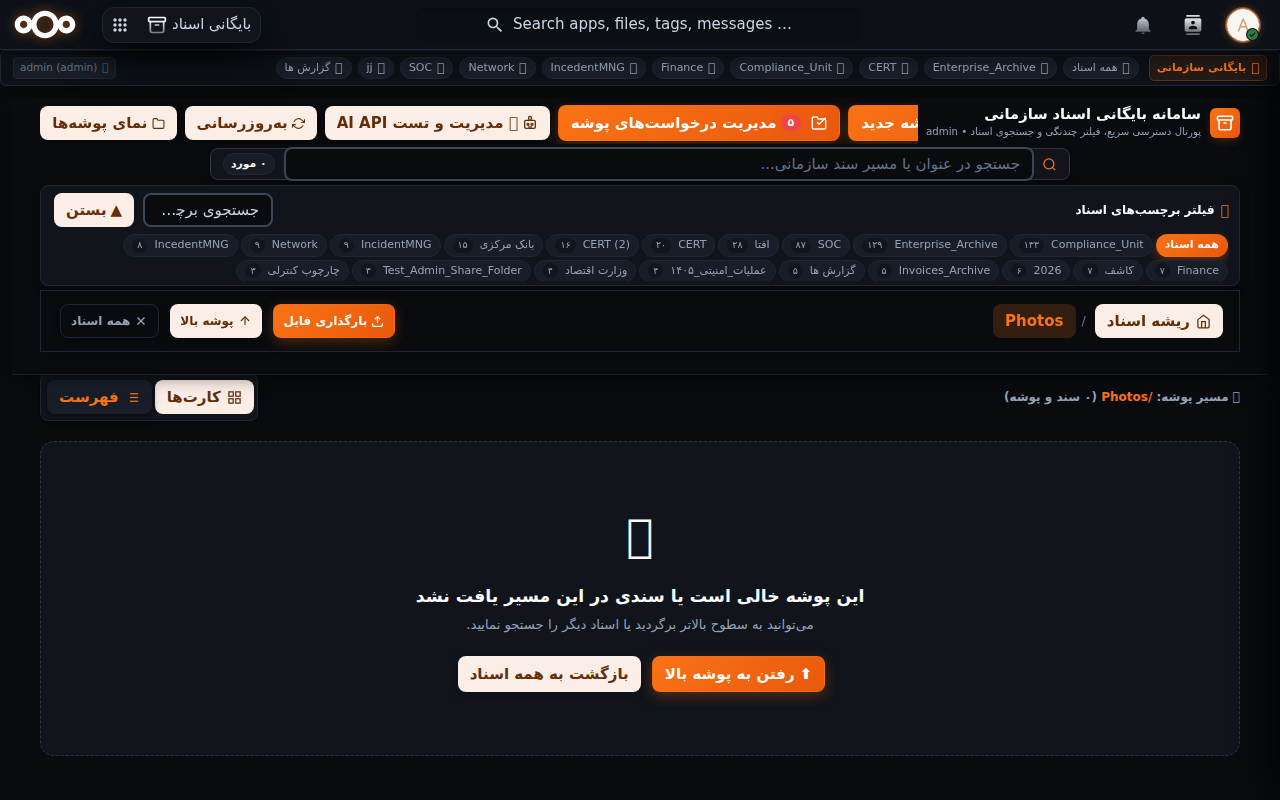
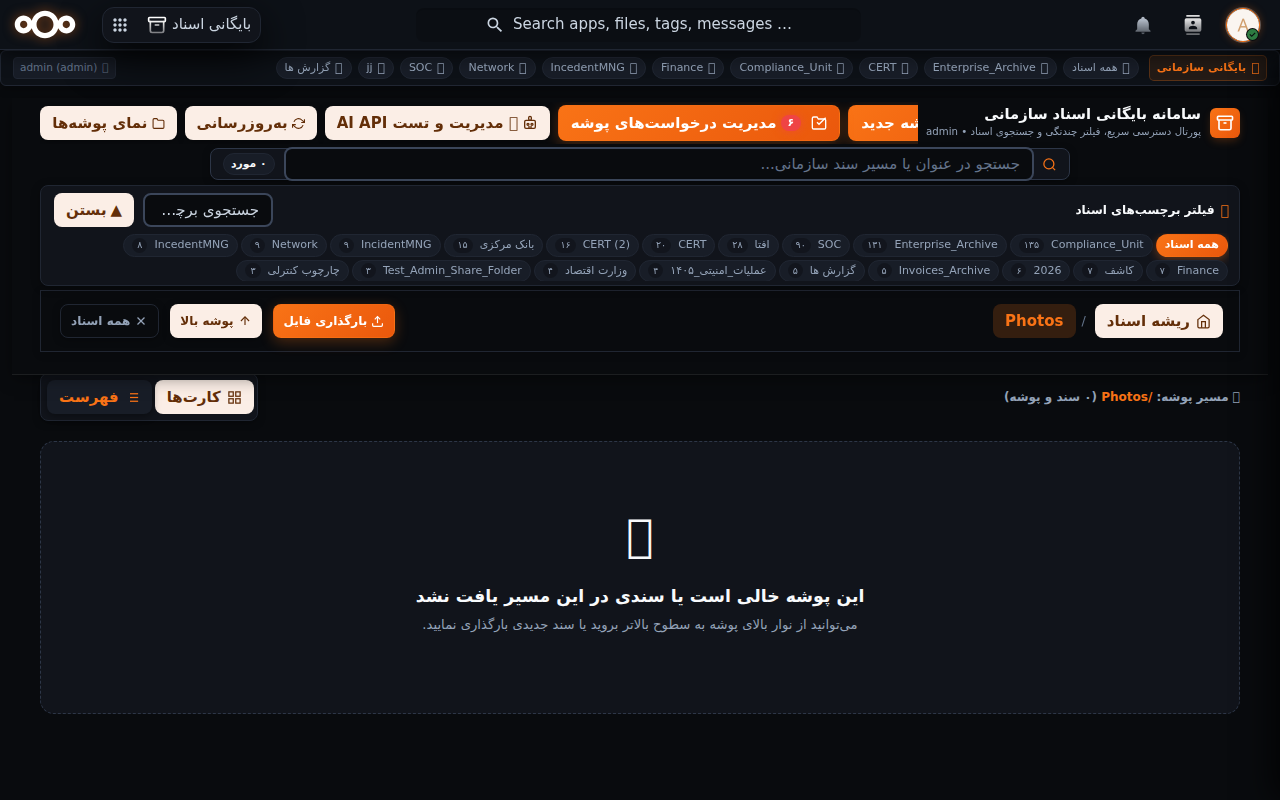
refactor(portal): remove all redundant action buttons from empty folder state card

Changed region(s): [[0.3438, 0.7812, 0.6562, 0.875]]

diff --git a/apps/archive_autotag/js/archive_portal.js b/apps/archive_autotag/js/archive_portal.js
@@ -917,25 +917,9 @@
                 '<div class="ea-empty-state">',
                 '  <div class="ea-empty-icon">📁</div>',
                 '  <div class="ea-empty-title">این پوشه خالی است یا سندی در این مسیر یافت نشد</div>',
-                '  <div class="ea-empty-desc">میتوانید به سطوح بالاتر برگردید یا اسناد دیگر را جستجو نمایید.</div>',
-                '  <div style="display: flex; gap: 8px; justify-content: center; margin-top: 14px; flex-wrap: wrap;">',
-                (state.currentFolderDir && state.currentFolderDir !== '/' ? '    <button class="ea-btn ea-btn-primary" id="ea-empty-up-btn">⬆ رفتن به پوشه بالا</button>' : ''),
-                '    <button class="ea-btn ea-btn-secondary" id="ea-empty-exit-btn">بازگشت به همه اسناد</button>',
-                '  </div>',
+                '  <div class="ea-empty-desc">میتوانید از نوار بالای پوشه به سطوح بالاتر بروید یا سند جدیدی بارگذاری نمایید.</div>',
                 '</div>'
             ].join('');
-            var upBtn = document.getElementById('ea-empty-up-btn');
-            if (upBtn) {
-                upBtn.addEventListener('click', function () {
-                    var parts = (state.currentFolderDir || '/').split('/').filter(Boolean);
-                    parts.pop();
-                    openFolderInPortal('/' + parts.join('/'), null);
-                });
-            }
-            var exitBtn = document.getElementById('ea-empty-exit-btn');
-            if (exitBtn) {
-                exitBtn.addEventListener('click', exitFolderMode);
-            }
             return;
         }
 
